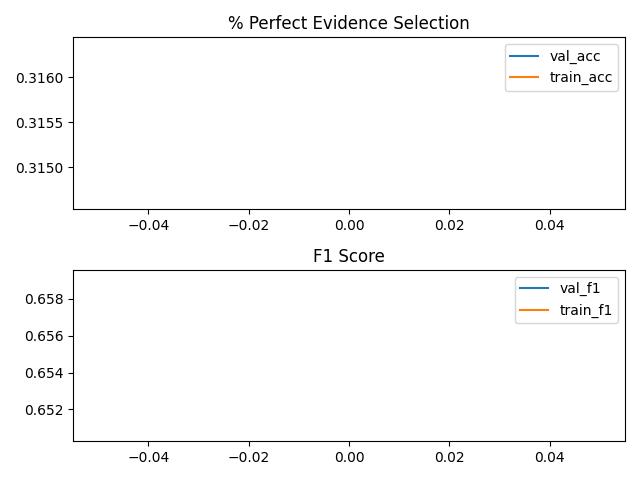
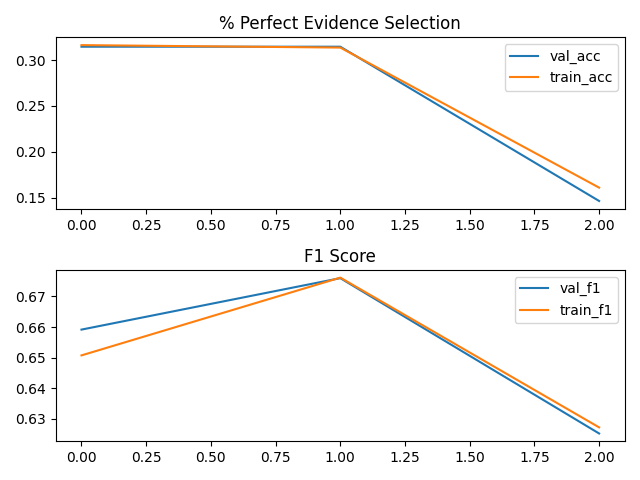
continued ppo training progres

diff --git a/Agent/ppo_train.py b/Agent/ppo_train.py
@@ -18,7 +18,7 @@ from train_utils import Logger, train, get_mem_use
 
 
 # checkpoint locations to load pretrained models
-AGENT_CHECK = "checkpoints/agent-pre"
+AGENT_CHECK = "checkpoints/onehot_ppo_56"
 SEARCH_CHECK = "checkpoints/searcher-p"
 
 
@@ -33,14 +33,14 @@ VAL_FILE = "../local_data/hotpot_data/val.json"
 VAL_ENCODINGS = "../local_data/corpus_encodings/val.pt"
 
 # folder to save checkpoints to
-CHECKPOINT = "./checkpoints/quasi_ppo"
+CHECKPOINT = "./checkpoints/cont_ppo"
 # csv file to save progress logs to
-LOG = "./logs/quasi_ppo.csv"
+LOG = "./logs/cont_ppo.csv"
 # png file to save graph of progress to
-GRAFF = "./logs/quasi_ppo.png"
+GRAFF = "./logs/cont_ppo.png"
 
 # training hyperparameters
-LR = 1e-6
+LR = 1e-7
 BATCH_SIZE = 6
 
 # number of actions to choose from, including submit
@@ -69,7 +69,7 @@ MAX_BUF = 5000
 TRAIN_SKIP = 1
 
 # temperature coef for exploration sampling
-EXPLORE_COEF = 3
+EXPLORE_COEF = 1
 
 # device to run training on
 DEVICE = torch.device("cuda")
@@ -187,31 +187,28 @@ def PPOLoss(pred, target):
 
     assert pred.shape == old_policy.shape and pred.shape == advantage.shape and pred.shape == mask.shape
     
-    J = torch.nn.functional.log_softmax(pred, dim=-1)[mask] * advantage[mask]
-    return torch.sum(J) / pred.shape[0]
-
     # model output is logits -> convert to probabilities
-    #probs = torch.nn.functional.softmax(pred, dim=-1)
+    probs = torch.nn.functional.softmax(pred, dim=-1)
 
     # apply action masking to all tensors
-    #probs, old_policy, advantage = probs[mask], old_policy[mask], advantage[mask]
+    probs, old_policy, advantage = probs[mask], old_policy[mask], advantage[mask]
 
     # we use the old policy to regularize the current one
-    #ratio = probs / old_policy
+    ratio = probs / old_policy
 
     # clip to avoid the policy from making too big a change at once
-    #clipped_ratio = torch.clip(ratio, 1-CLIP_ALPHA, 1+CLIP_ALPHA)
+    clipped_ratio = torch.clip(ratio, 1-CLIP_ALPHA, 1+CLIP_ALPHA)
     
     # we want higher advantage choices to have higher ratio
-    #A_r = advantage * ratio
-    #A_clipped = advantage * clipped_ratio
+    A_r = advantage * ratio
+    A_clipped = advantage * clipped_ratio
 
     # this handles high/low clip vs. +/- advantage
     # (just think about the cases)
-    #minned = torch.minimum(A_r, A_clipped)
+    minned = torch.minimum(A_r, A_clipped)
 
     # return average, negative to minimize
-    #return -torch.sum(minned) / pred.shape[0]
+    return -torch.sum(minned) / pred.shape[0]
 
 
 def main():

diff --git a/Agent/environment.py b/Agent/environment.py
@@ -328,15 +328,17 @@ class Environment:
 
                     """ Sample a random trajectory """
                     # save (q, e, A, mask, p, Adv) tuple to buffer
-                    mask = advantage > 0.0
+                    mask = torch.zeros_like(advantage).bool()
+                    action = np.random.choice(np.arange(policy.numel()), p=policy.detach().cpu().numpy())
+                    mask[action] = True
                     self.replay_buffer.append((question, evidence, action_set[1:].copy(), mask, policy.detach(), advantage.detach()))
  
-                    probs = torch.nn.functional.softmax(logits * self.exploration_coefficient, dim=-1)
+                    # probs = torch.nn.functional.softmax(logits * self.exploration_coefficient, dim=-1)
                     # sample a random action from the policy to continue the trajectory
-                    action = np.random.choice(np.arange(policy.numel()), p=probs.detach().cpu().numpy())
+                    # action = np.random.choice(np.arange(policy.numel()), p=probs.detach().cpu().numpy())
 
                     # stop if we submit, reach max depth, or run out of evidence needed for full stack
-                    if action == 0 or len(chosen) == MAX_DEPTH or len(avail_text)-1 < self.top_k-1:
+                    if action == 0 or len(chosen) == MAX_DEPTH or len(avail_text)-1 < self.top_k:
                         
                         num_seen += 1
                         total_f1 += self.getF1(q_ind, chosen)
@@ -410,7 +412,7 @@ class Environment:
                     action = 0
 
                 # stop if we submit, reach max depth, or run out of evidence needed for full stack
-                if action == 0 or len(chosen)+start_depth == MAX_DEPTH or len(avail_text)-1 < self.top_k-1:
+                if action == 0 or len(chosen)+start_depth == MAX_DEPTH or len(avail_text)-1 < self.top_k:
                     break
 
                 # continue sampling rollout
